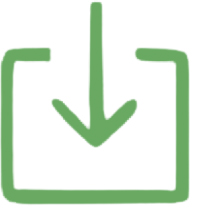
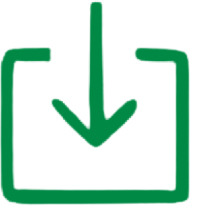
add the color green  and the circle

Changed region(s): [[0.0, 0.2297, 0.9697, 0.9761], [0.2424, 0.0, 0.697, 0.7177]]

diff --git a/src/component/Hsbc/Hsbc.tsx b/src/component/Hsbc/Hsbc.tsx
@@ -5,6 +5,36 @@ import Number from "../../shared/Number";
 function Hsbc(props) {
   const limit = Math.floor(Math.random() * (100 - 6 + 1)) + 6;
 
+  const kongKongRedCross = () => {
+    return (
+      <div className="hsbc__">
+        <span>Hong Kong Red Cross</span>
+        <span>024 - 恒生銀行有限公司</span>
+        <span>388553950001</span>
+      </div>
+    );
+  };
+
+  const bankChina = () => {
+    return (
+      <div className="hsbc__">
+        <span>Hong Kong Red Cross</span>
+        <span>012- 中国银行（香港）有限公司</span>
+        <span>01280600028173</span>
+      </div>
+    );
+  };
+
+  const bea = () => {
+    return (
+      <div className="hsbc__">
+        <span>Hong Kong Red Cross</span>
+        <span>015- 東亞銀行有限公司</span>
+        <span>015514104011221</span>
+      </div>
+    );
+  };
+
   return (
     <div className="app__hsbc">
       <div className="hsbc__header">
@@ -76,13 +106,7 @@ function Hsbc(props) {
             <div className="hsbc__left">
               <span>入賬戶囗</span>
             </div>
-            <div className="hsbc__right">
-              <div className="hsbc__">
-                <span>Hong Kong Red Cross</span>
-                <span>024 - 恒生銀行有限公司</span>
-                <span>388553950001</span>
-              </div>
-            </div>
+            <div className="hsbc__right">{kongKongRedCross()}</div>
           </div>
 
           <img src="hsbc/semibar.png" alt="" className="semibar" />

diff --git a/src/layout/sidebar/Sidebar.tsx b/src/layout/sidebar/Sidebar.tsx
@@ -22,15 +22,15 @@ function Sidebar({
   const [amount, setamount] = useState(200);
   const [listamount, setlistamount] = useState([200]);
   const [bank, setbank] = useState("orange");
-  const updateAmount=()=> {
+  const updateAmount = () => {
     if (bank === "redCross") {
       setlistamount([200, 800]);
     } else {
       setlistamount([200, 800, 1500, 2500]);
     }
-  }
+  };
   useEffect(() => {
-    updateAmount()
+    updateAmount();
   }, [value, bank]);
 
   const change = (event) => {
@@ -69,6 +69,21 @@ function Sidebar({
             )}
           </select>
         </div>
+
+        {value === "hsbc" && (
+          <div className="list__bank">
+            <div>
+              <img src="/sidebar/bea.png" alt="" width={60} />
+            </div>
+            <div>
+              <img src="/sidebar/bankchina.jpg" alt="" width={109} />
+            </div>
+            <div>
+              <img src="/sidebar/HangSeng.png" alt="" width={60} />
+            </div>
+          </div>
+        )}
+
         {value === "800" && (
           <div className="form__group">
             <label htmlFor=""> Select Size</label>

diff --git a/src/component/green/green.css b/src/component/green/green.css
@@ -51,7 +51,7 @@
 .green__circle {
   width: 50px;
   height: 50px;
-  background: #69a962;
+  background: #3BA044;
   border-radius: 50%;
   display: grid;
   place-items: center;
@@ -137,7 +137,7 @@
   font-size: 11px;
   line-height: 13px;
   /* identical to box height */
-  color: #69a962;
+  color: #008945;
 }
 
 .grenn__seperate {
@@ -299,7 +299,7 @@
 .button__green {
   width: 339px;
   height: 44px;
-  background: #4F925D;
+  background: #008945;
   border-radius: 7px;
   display: grid;
   place-content: center;
@@ -360,7 +360,7 @@
   z-index: 1;
 }
 .logo__green {
-  opacity: 0.7;
+  opacity: 1;
 }
 .hidetext {
   padding-top: 17px;

diff --git a/src/component/Mox/Mox.tsx b/src/component/Mox/Mox.tsx
@@ -57,7 +57,6 @@ function Mox(props) {
             
          </span>
         </div>
-
         <div className="circle__subdescription">
           您的付款已成功轉賬至收款人
           <span className="positon__re">。</span>

diff --git a/src/layout/sidebar/sidebar.css b/src/layout/sidebar/sidebar.css
@@ -93,3 +93,12 @@ input[type="color"]::-webkit-color-swatch {
 .erase__button:active{ 
 
 }
+
+.list__bank{ 
+  display: flex;
+  justify-content: space-between;
+}
+
+.list__bank > div { 
+  cursor: pointer;
+}
